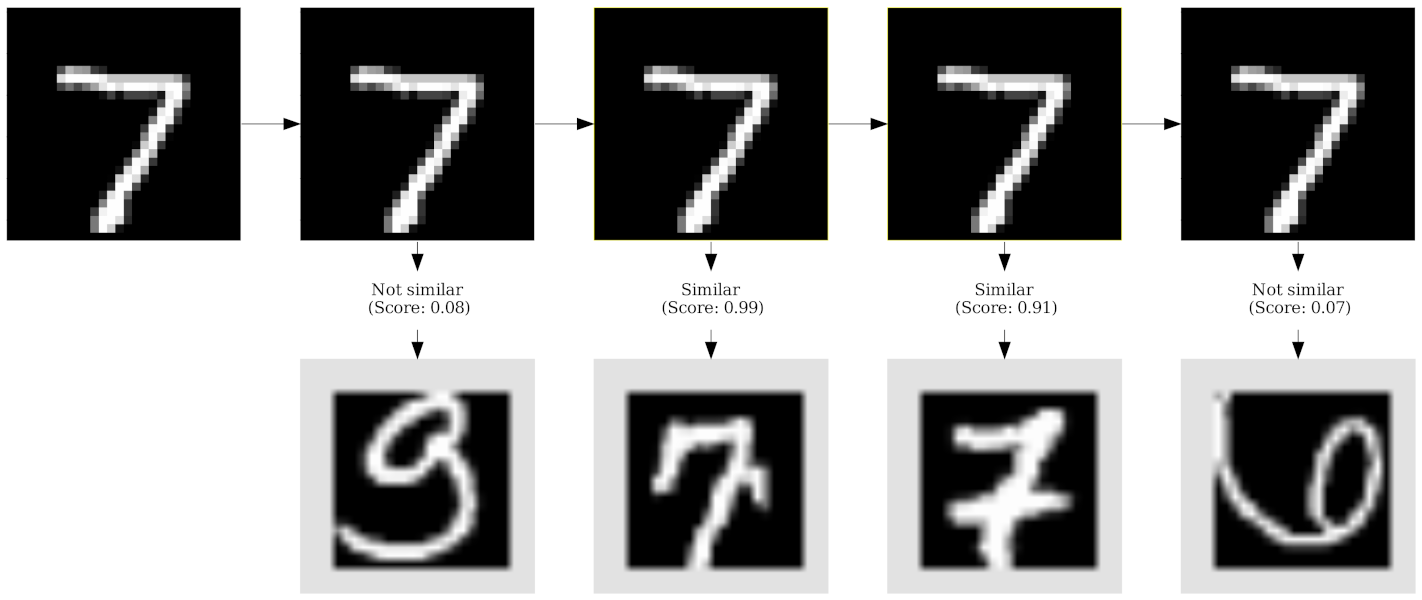
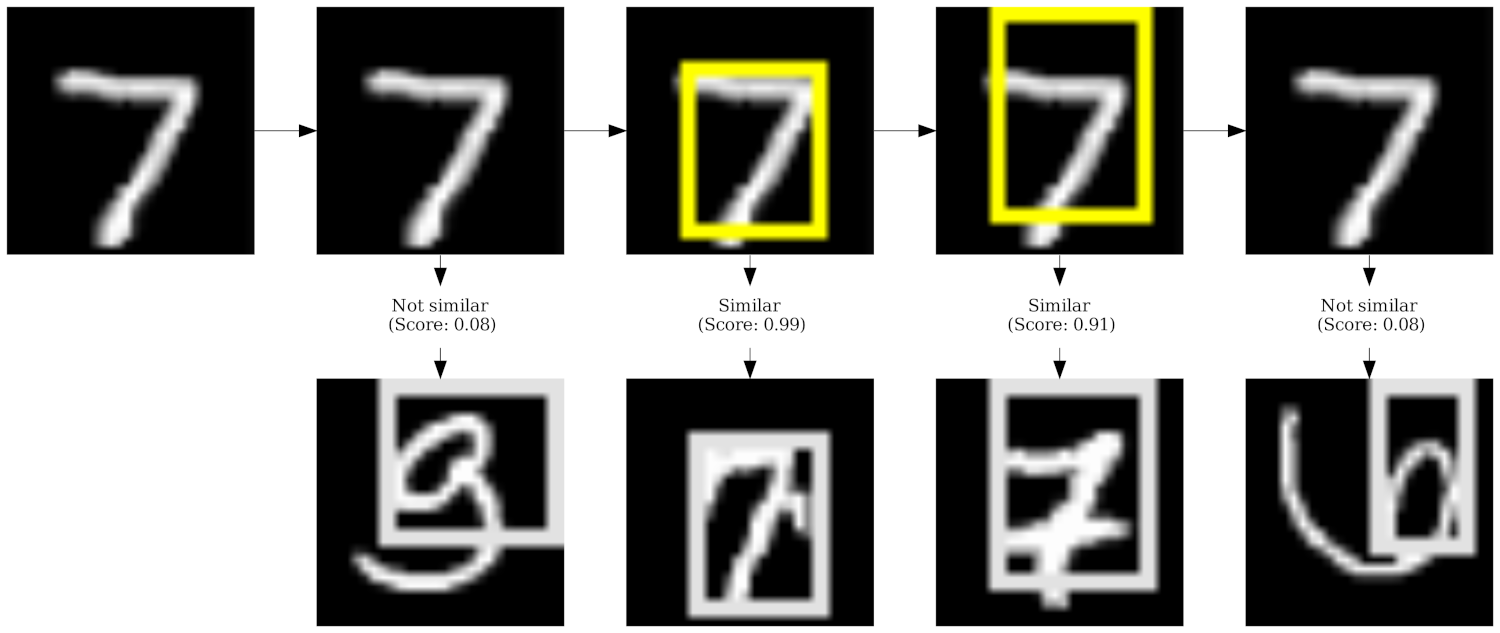
Add draft on documentation for visualization.

diff --git a/src/cabrnet/visualisation/visualize.md b/src/cabrnet/visualisation/visualize.md
@@ -1,0 +1,92 @@
+# Visualizing prototypes and test patches
+The method used to visualize prototypes and test patches is a contributing factor to the 
+self-explaining nature of prototype-based architectures.
+In particular, incorrect visualization methods can hide model biases, or suggest model bias when there is none, as shown in:
+- *Srishti Gautam, Marina M.-C. Höhne, Stine Hansen, Robert Jenssen, Michael Kampffmeyer,*
+[This looks More Like that: Enhancing Self-Explaining Models by Prototypical Relevance Propagation](https://www.sciencedirect.com/science/article/pii/S0031320322006513).
+Pattern Recognition, Volume 136, 2023.
+- *Romain Xu-Darme, Georges Quénot, Zakaria Chihani, Marie-Christine Rousset*
+[Sanity checks for patch visualisation in prototype-based image classification](https://openaccess.thecvf.com/content/CVPR2023W/XAI4CV/papers/Xu-Darme_Sanity_Checks_for_Patch_Visualisation_in_Prototype-Based_Image_Classification_CVPRW_2023_paper.pdf).
+2023 IEEE/CVF Conference on Computer Vision and Pattern Recognition Workshops (CVPRW).
+
+CaBRNet uses YML files to specify which method should be used to visualize prototypes and test patches.
+Visualizing any image patch requires:
+- an *attribution* method that identifies, for a given prototype $P$ and a given image $I$, which pixels in $I$ most
+contribute to the similarity between $I$ and $P$.
+- a *viewing* method that presents these pixels in a relevant manner to the user.
+
+```yaml
+attribution:
+    type: <cubic_upsampling|smoothgrad|randgrad|prp>
+    params:
+      <METHOD_PARAM_NAME_1>: <PARAM_VALUE>
+      ...
+view:
+    type: <crop_to_percentile|bbox_to_percentile|heatmap>
+    params:
+      <METHOD_PARAM_NAME_1>: <PARAM_VALUE>
+...
+```
+## Attribution methods
+CaBRNet currently supports the following attribution methods.
+### Cubic up-sampling
+This is the method used in the original papers of both ProtoPNet and ProtoTree. The attribution map is obtained by 
+up-sampling the similarity map between $I$ and $P$ to the size of $I$, using cubic interpolation.
+This method supports the following options:
+- `single_location`: only up-sample the location of highest similarity inside the similarity map. 
+This option sets all other similarity scores to zero prior to up-sampling
+- `normalize`: apply min-max normalization after up-sampling
+
+### SmoothGrad
+This method implements the SmoothGrad explanation method, as described [here](https://arxiv.org/abs/1706.03825).
+By default, this method computes a sum of the gradients of each location inside the similarity map $S(I,P)$ w.r.t. to $I$,
+weighted by the corresponding similarity scores, i.e.
+\[
+    A = \sum\limits_{h,w} S{h,w}(I,P)\times SG(S{h,w}(I,P))
+\]
+where $SG(S_{h,w}(I,P))=\sum\limits_{i=1}^n\dfrac{\delta S_{h,w}(I+\mathcal{N}(0,\sigma),P)}{\delta I}$.
+This method supports the following options:
+- `single_location`: only compute the gradients at the location of highest similarity inside the similarity map. 
+- `noise_ratio`: controls the noise ratio (amount of noise added to each perturbed image).
+- `num_samples`: number of perturbed samples per image (per location).
+
+### PRP
+This method implements the variant of LRP for prototype-based architectures, as described [here](https://www.sciencedirect.com/science/article/pii/S0031320322006513),
+and supports the following option:
+- `stability_factor`: stability factor used during relevance propagation
+
+### Rand-Grads
+This method returns random attributions and constitutes a baseline for various metrics evaluating the 
+quality of attribution methods. 
+
+
+### Post-processing gradients
+Additionally, SmoothGrad, RandGrad and PRP offer a post-processing capability that normalizes and smooths the gradients,
+using the following options:
+- `polarity`: keep only `positive` or `negative` gradients, or their `absolute` value. 
+- `gaussian_ksize`: apply a Gaussian filter with a kernel of a given size.
+- `normalize`: apply min-max normalization
+- `grads_x_input`: multiply the attribution map (gradients) and the image element-wise.
+
+## Viewing methods
+CaBRNet supports the following methods for visualizing the most contributing pixels to the similarity
+between image $I$ and prototype $P$.
+
+### Bounding-box to percentile
+This method draws a bounding-box around the most contributing pixels, according to a given
+threshold, given as a percentile of attribution. More precisely, **this method assumes that
+the activation map has been normalized between 0 and 1 (using min-max normalization), then
+draws a bounding box encompassing all pixels with an attribution value higher than `1-percentile`,
+e.g. for `percentile=0.8`, the bounding-box encompasses all pixels with attribution values greater than 0.2.
+
+This methods supports the following options:
+- `percentile`: sets the selection threshold for pixels, based on their attribution values
+- `thickness`: thickness of the bounding-box, in pixels.
+ 
+
+### Crop to percentile
+Rather than drawing a bounding-box around the most contributing pixels, this method crops the
+image based on this bounding-box, using the `percentile` option as in the [previous method](#bounding-box-to-percentile). 
+
+### Heatmap
+TODO

diff --git a/README.md b/README.md
@@ -96,7 +96,7 @@ CaBRNet uses [loguru](https://loguru.readthedocs.io/en/stable/) for logging mess
 - `--model-config /path/to/file.yml` indicates how to [build and initialize the model](src/cabrnet/generic/model.md).
 - `--dataset|-d /path/to/file.yml` indicates how to [load and prepare the data for training](src/cabrnet/utils/data.md).
 - `--training|-t /path/to/file.yml` indicates the [training parameters of the model](src/cabrnet/utils/optimizers.md).
-- `--visualization /path/to/file.yml` indicates how to visualize the prototypes and patches of test image (TODO).
+- `--visualization /path/to/file.yml` indicates how to [visualize the prototypes and patches of test image](src/cabrnet/visualisation/visualize.md).
 - `--save-best acc|loss` indicates how to determine the "best" model, based either on accuracy (`acc`) or `loss`.
 - `--output-dir path/to/output/directory` indicates where to store the model checkpoints during training.
 
@@ -138,7 +138,7 @@ CaBRNet **finalizes the import process by projecting and extracting the prototyp
 Therefore, the `cabrnet import` tool also requires the following information:
 - `--dataset|-d /path/to/file.yml` indicates how to [load and prepare the data for prototype projection](src/cabrnet/utils/data.md).
 - `--training|-t /path/to/file.yml` indicates the [parameters of the epilogue](src/cabrnet/utils/optimizers.md) (if any).
-- `--visualization /path/to/file.yml` indicates how to visualize the prototypes (TODO).
+- `--visualization /path/to/file.yml` indicates how to [visualize the prototypes](src/cabrnet/visualisation/visualize.md).
 
 
 ## Evaluating a CaBRNet model
@@ -169,19 +169,20 @@ A local explanation is generated using the `explain` method of the CaBRNet model
 - `--image path/to/image` indicates which image should be classified by the model. 
 - `--dataset|-d /path/to/file.yml` indicates how to [prepare the image](src/cabrnet/utils/data.md) before it is processed by the model,
 based on the transformations applied to the *test* dataset.
-- `--visualization /path/to/file.yml` indicates how to visualize the patches of the test image (TODO).
+- `--visualization /path/to/file.yml` indicates how to [visualize the patches of the test image](src/cabrnet/visualisation/visualize.md).
 - `--prototype-dir path/to/prototype/directory` indicates where the prototype visualizations extracted during 
 [training](#training-) are stored (usually in `<training_directory>/prototypes/`).
 - `--output-dir path/to/output/directory` indicates where to store the local explanation.
+- `--overwrite` indicates that any existing explanation in the output directory can be overwritten.
 
 # Example: ProtoTree / MNIST
 ## Training
 ```bash
-cabrnet --device cpu --seed 42 --verbose --logger-level INFO train \
+cabrnet train --device cpu --seed 42 --verbose --logger-level INFO  \
   --model-config configs/prototree/mnist/model.yml \
   --dataset configs/prototree/mnist/data.yml \
   --training configs/prototree/mnist/training.yml \
-  --training-dir runs/mnist_prototree \
+  --output-dir runs/mnist_prototree \
   --visualization configs/prototree/mnist/visualization.yml
 ```
 This command trains a ProtoTree during one epoch, and stores the resulting checkpoint in 
@@ -189,11 +190,10 @@ This command trains a ProtoTree during one epoch, and stores the resulting check
 
 ## Global explanation
 ```bash
-cabrnet --verbose explain_global \
+cabrnet explain_global --verbose \
   --model-config runs/mnist_prototree/final/model.yml \
   --model-state-dict runs/mnist_prototree/final/model_state.pth \
-  --output-dir runs/mnist_prototree/global_explanation \ 
-  --prototype-dir runs/mnist_prototree/prototypes/ 
+  --output-dir runs/mnist_prototree/global_explanation --prototype-dir runs/mnist_prototree/prototypes/
 ```
 This command generates a global explanation for the ProtoTree model and stores the result in 
 `runs/mnist_prototree/global_explanation`.
@@ -202,7 +202,7 @@ This command generates a global explanation for the ProtoTree model and stores t
 
 ## Local explanation
 ```bash
-cabrnet --verbose explain \
+cabrnet explain_local --verbose \
   --model-config runs/mnist_prototree/final/model.yml  \
   --model-state-dict runs/mnist_prototree/final/model_state.pth \
   --dataset configs/prototree/mnist/data.yml \
